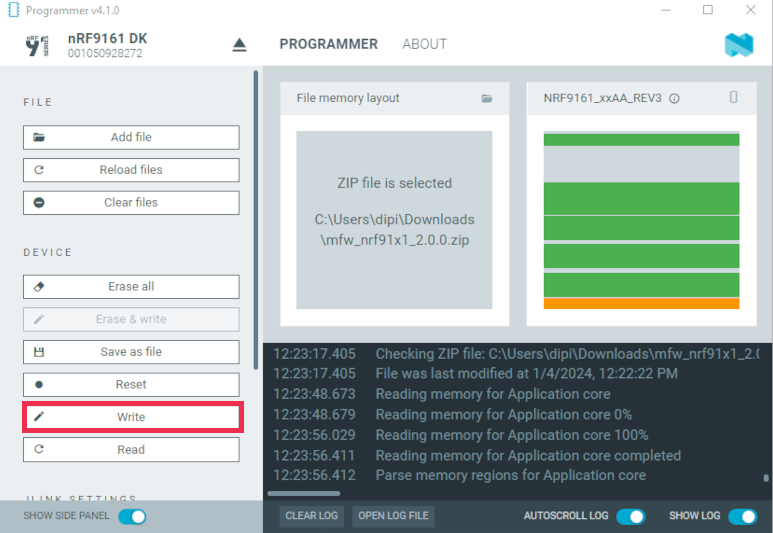
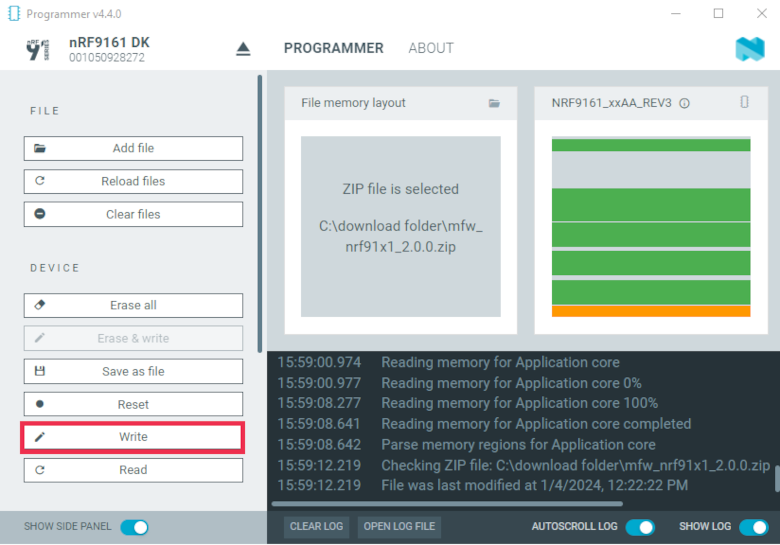
doc improvement: Minor updates to nRF91 images
Minor updates to following images of nRF91:

* programmer_select_device_nrf9161
* programmer_hex_write_nrf9161

diff --git a/doc/nrf/device_guides/nrf91/nrf91_dk_updating_fw_programmer.rst b/doc/nrf/device_guides/nrf91/nrf91_dk_updating_fw_programmer.rst
@@ -74,7 +74,7 @@ To update the modem firmware, complete the following steps.
 
       .. group-tab:: nRF9161 DK
 
-         .. figure:: images/cellularmonitor_selectdevice_nrf9161.png
+         .. figure:: images/programmer_select_device_nrf9161.png
             :alt: Programmer - Select device
 
             Programmer - Select device
